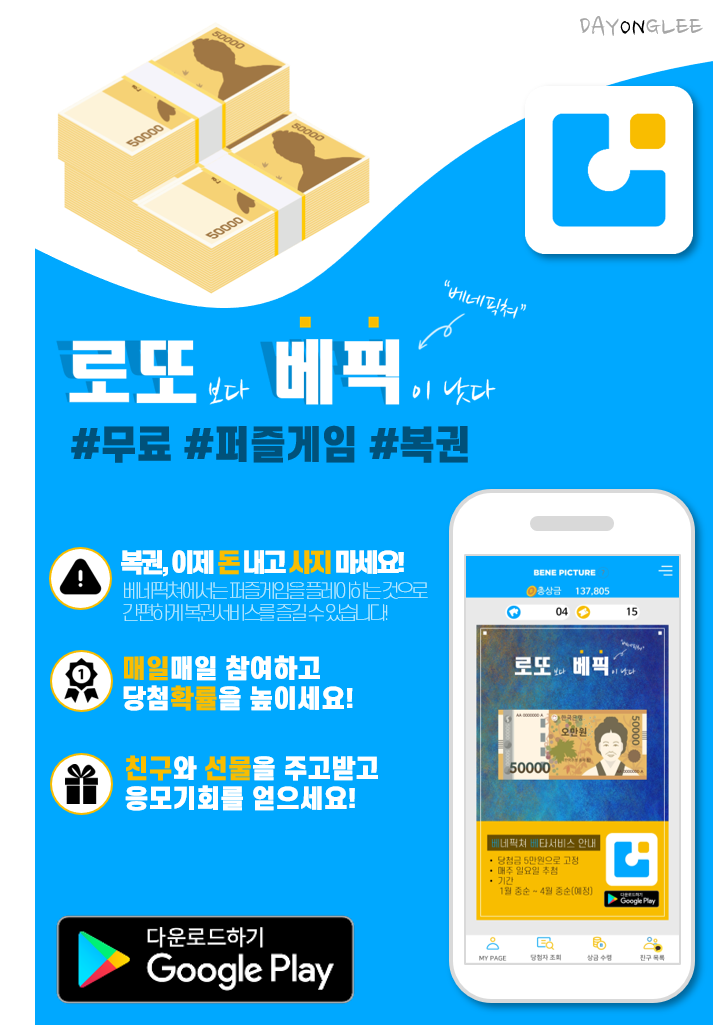
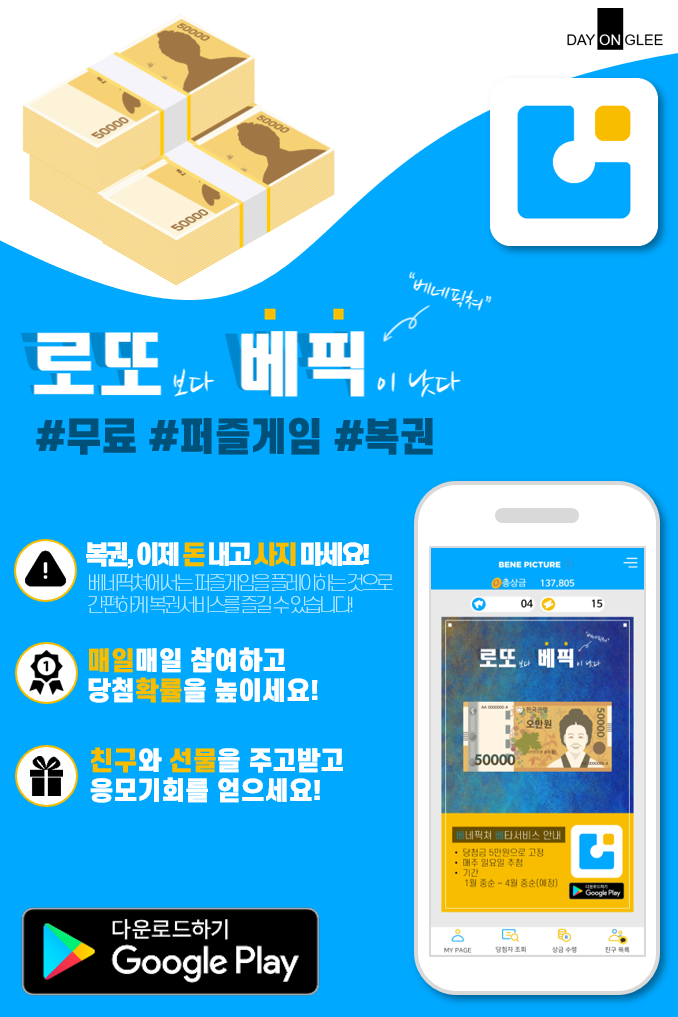
update main index color

diff --git a/app.js b/app.js
@@ -186,12 +186,12 @@ app.get('/contact', function(req,res){
   res.render("contact",{subtitle : "CONTACT US"});
 });
 
-app.get('/qna', function(req,res){
-  Qna.find({}).sort('-createdAt').exec(function (err,qnas){
-      if(err) return res.json({success:false, message:err});
-      res.render("qna",{subtitle : "FAQ",data:qnas});
-  });
-});
+// app.get('/qna', function(req,res){
+//   Qna.find({}).sort('-createdAt').exec(function (err,qnas){
+//       if(err) return res.json({success:false, message:err});
+//       res.render("qna",{subtitle : "FAQ",data:qnas});
+//   });
+// });
 
 app.get('/question', function(req,res){
     console.log("question.ejs");

diff --git a/public/stylesheets/style.css b/public/stylesheets/style.css
@@ -151,6 +151,7 @@ select::-ms-expand {
 
 .index_text_center{
   text-align: center;
+  font-weight: bold;
 }
 .index_div_notice{
   margin-top : 50px;
@@ -474,6 +475,17 @@ img {vertical-align: middle;}
 
 /* index slide show end*/
 
+.index_intro_ad{
+  margin-right : 10px;
+}
+
+.index_introduce{
+  color: #ffffff;
+  background-color : rgb(0, 168, 255);
+  font-size : 17px;
+  font-weight: bold;
+  border-color: rgb(249,189,0);
+}
 /* FOOTER */
 footer {
   display : block;

diff --git a/public/stylesheets/mobile.css b/public/stylesheets/mobile.css
@@ -356,7 +356,7 @@ select::-ms-expand {
     margin : auto;
     padding: 19px 22px;
     transition: all 0.2s ease;
-
+    display: inline-block;
 }
 .cta:before {
     content: "";
